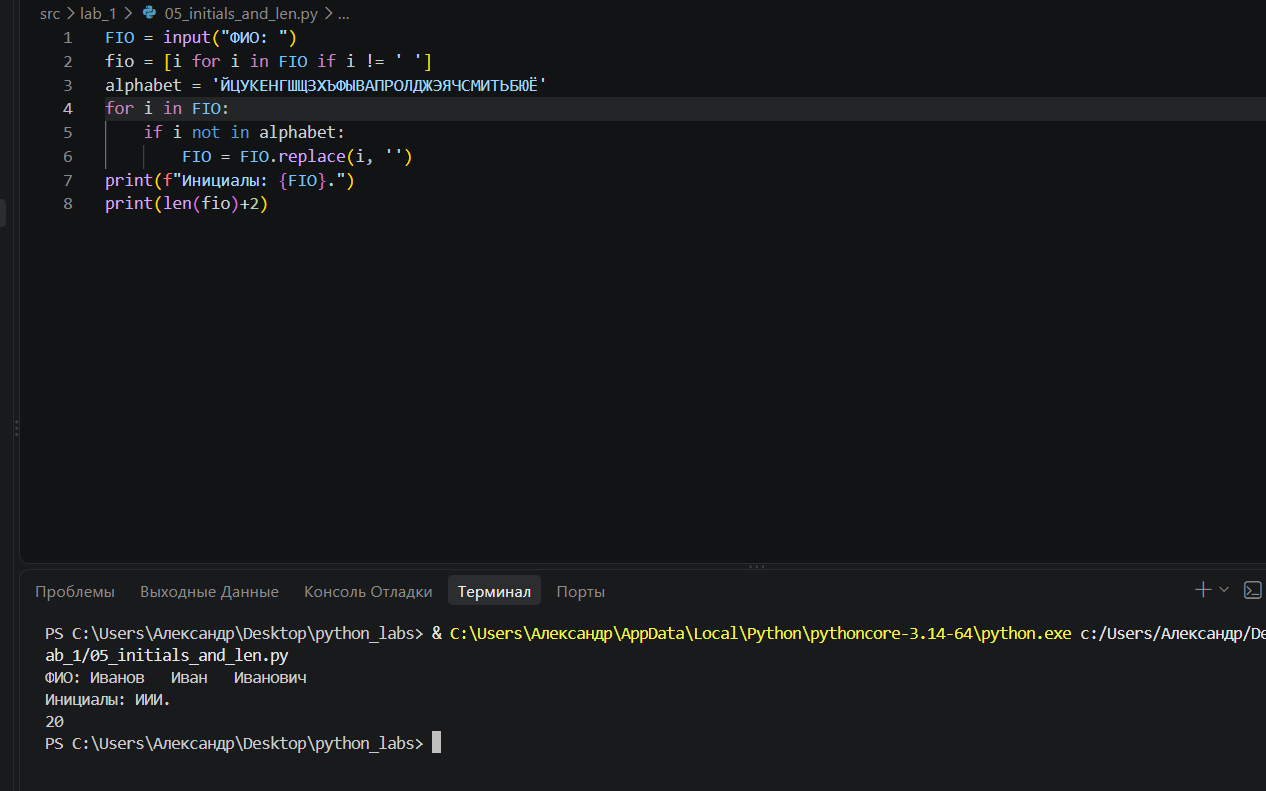
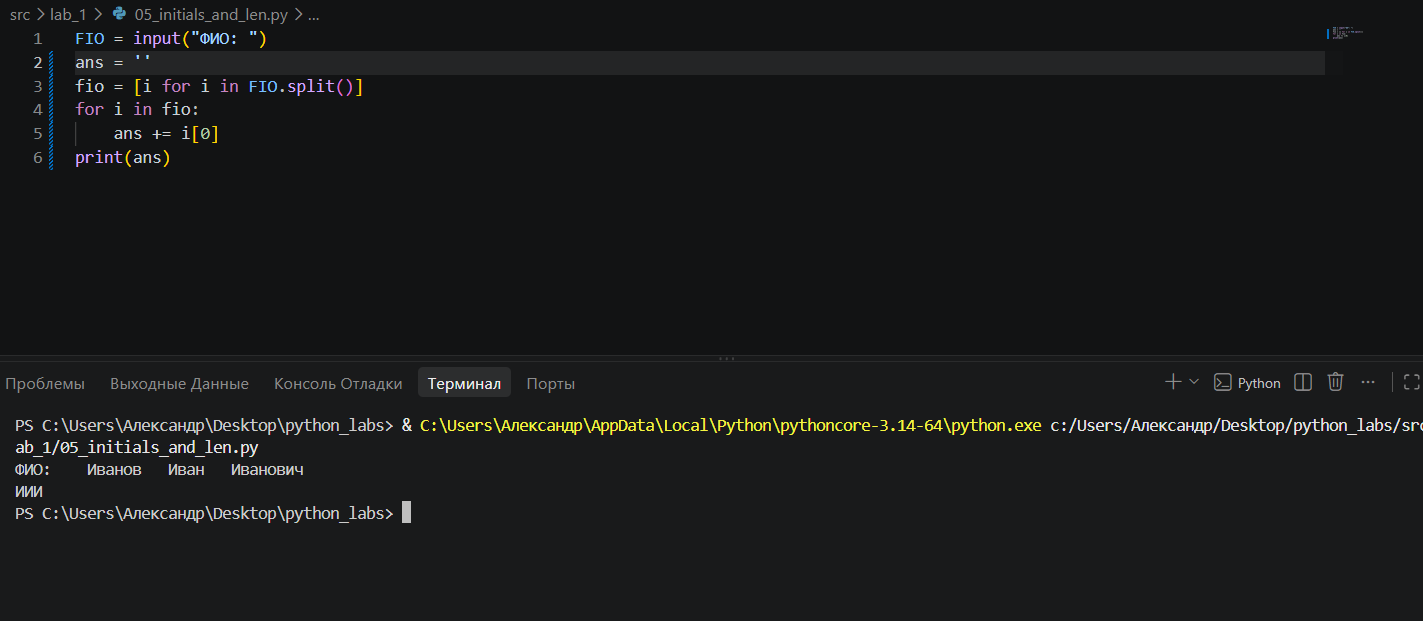
Исправил недочёты

diff --git a/src/lab_2/arrays.py b/src/lab_2/arrays.py
@@ -1,0 +1,101 @@
+def min_max(nums: list[float | int]) -> tuple[float | int, float | int]:
+    """Параметры:
+        nums: список чисел.
+
+    Возвращает:
+        Кортеж из двух элементов: (минимум, максимум).
+
+    Вызывает:
+        ValueError: если список пуст.
+    """
+    if not nums:
+        raise ValueError("Список пуст")
+    return min(nums), max(nums)
+
+
+def unique_sorted(nums: list[float | int]) -> list[float | int]:
+    """Параметры:
+        nums: список чисел.
+
+    Возвращает:
+        Отсортированный список уникальных значений по возрастанию.
+    """
+    return sorted(set(nums))
+
+
+def flatten(mat: list[list | tuple]) -> list:
+    """Параметры:
+        mat: список списков/кортежей.
+
+    Возвращает:
+        Список, «расплющенный» по строкам (row-major).
+
+    Вызывает:
+        TypeError: если встретился элемент, не являющийся списком или кортежем.
+    """
+    row_major = []
+    if not all(isinstance(i, (list, tuple)) for i in mat):
+        raise TypeError("Встретился элемент, который не является списком/кортежем")
+    else:
+        for i in mat:
+            for j in i:
+                row_major.append(j)
+        return row_major
+
+
+# ---------------------------------------------------------
+# ЭТОТ БЛОК НУЖЕН, ЧТОБЫ ФУНКЦИИ ЗАПУСТИЛИСЬ И ВСЁ ПРОВЕРИЛОСЬ
+# ---------------------------------------------------------
+if __name__ == "__main__":
+    print("=== Проверка min_max ===")
+    tests_min_max = [
+        ([3, -1, 5, 5, 0], (-1, 5)),
+        ([42], (42, 42)),
+        ([-5, -2, -9], (-9, -2)),
+        ([1.5, 2, 2.0, -3.1], (-3.1, 2)),
+    ]
+    for i, (inp, expected) in enumerate(tests_min_max, 1):
+        result = min_max(inp)
+        status = "✅" if result == expected else "❌"
+        print(f"Тест {i}: {status} | min_max({inp}) → {result} (ожидалось {expected})")
+
+    # Проверка ошибки на пустом списке
+    try:
+        min_max([])
+        print("Тест min_max([]): ❌ | Должен был выбросить ошибку!")
+    except ValueError:
+        print("Тест min_max([]): ✅ | Правильно выброшен ValueError")
+
+
+    print("\n=== Проверка unique_sorted ===")
+    tests_unique = [
+        ([3, 1, 2, 1, 3], [1, 2, 3]),
+        ([], []),
+        ([-1, -1, 0, 2, 2], [-1, 0, 2]),
+        ([1.0, 1, 2.5, 2.5, 0], [0, 1.0, 2.5]),
+    ]
+    for i, (inp, expected) in enumerate(tests_unique, 1):
+        result = unique_sorted(inp)
+        status = "✅" if result == expected else "❌"
+        print(f"Тест {i}: {status} | unique_sorted({inp}) → {result} (ожидалось {expected})")
+
+
+    print("\n=== Проверка flatten ===")
+    tests_flatten = [
+        ([[1, 2], [3, 4]], [1, 2, 3, 4]),
+        ([[1, 2], (3, 4, 5)], [1, 2, 3, 4, 5]),
+        ([[1], [], [2, 3]], [1, 2, 3]),
+    ]
+    for i, (inp, expected) in enumerate(tests_flatten, 1):
+        result = flatten(inp)
+        status = "✅" if result == expected else "❌"
+        print(f"Тест {i}: {status} | flatten({inp}) → {result} (ожидалось {expected})")
+
+    # Проверка ошибки на неверном типе
+    try:
+        flatten([[1, 2], "ab"])
+        print("Тест flatten([[1,2], 'ab']): ❌ | Должен был выбросить ошибку!")
+    except TypeError:
+        print("Тест flatten([[1,2], 'ab']): ✅ | Правильно выброшен TypeError")
+
+    print("\n🎉 Все проверки завершены!")

diff --git a/src/lab_1/05_initials_and_len.py b/src/lab_1/05_initials_and_len.py
@@ -1,8 +1,6 @@
 FIO = input("ФИО: ")
-fio = [i for i in FIO if i != ' ']
-alphabet = 'ЙЦУКЕНГШЩЗХЪФЫВАПРОЛДЖЭЯЧСМИТЬБЮЁ'
-for i in FIO:
-    if i not in alphabet:
-        FIO = FIO.replace(i, '')
-print(f"Инициалы: {FIO}.")
-print(len(fio)+2)
+ans = ''
+fio = [i for i in FIO.split()]
+for i in fio:
+    ans += i[0]
+print(ans)
